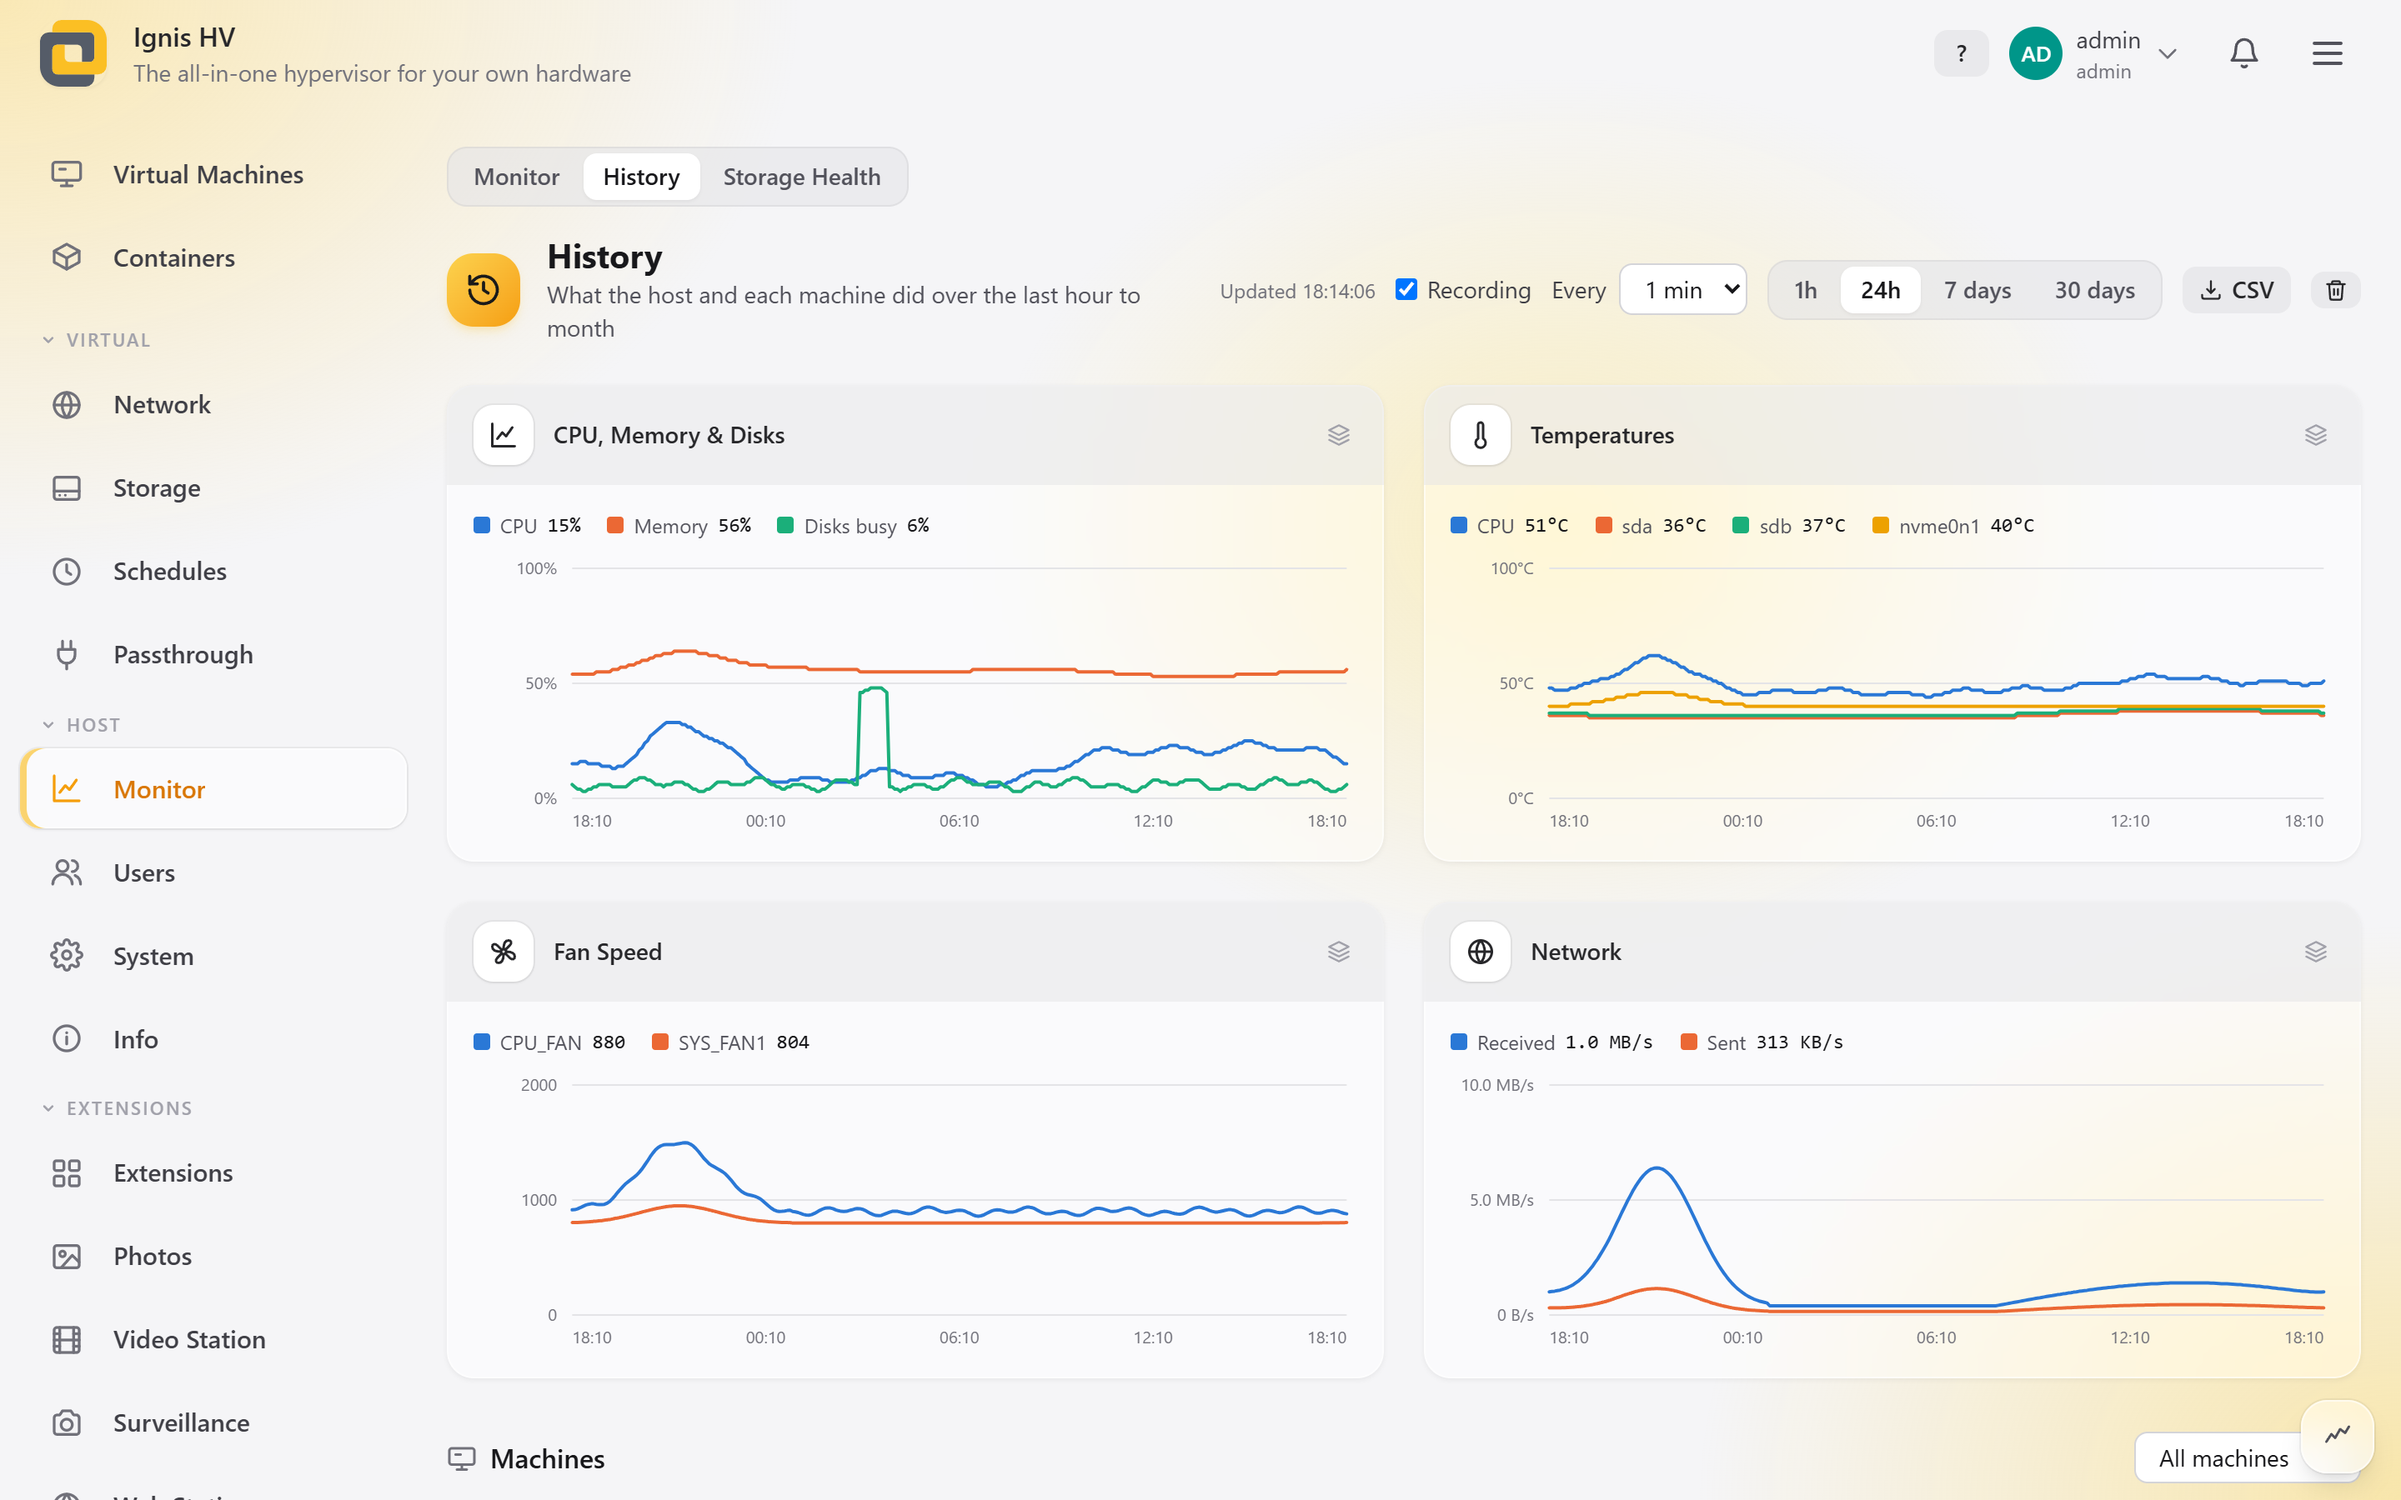
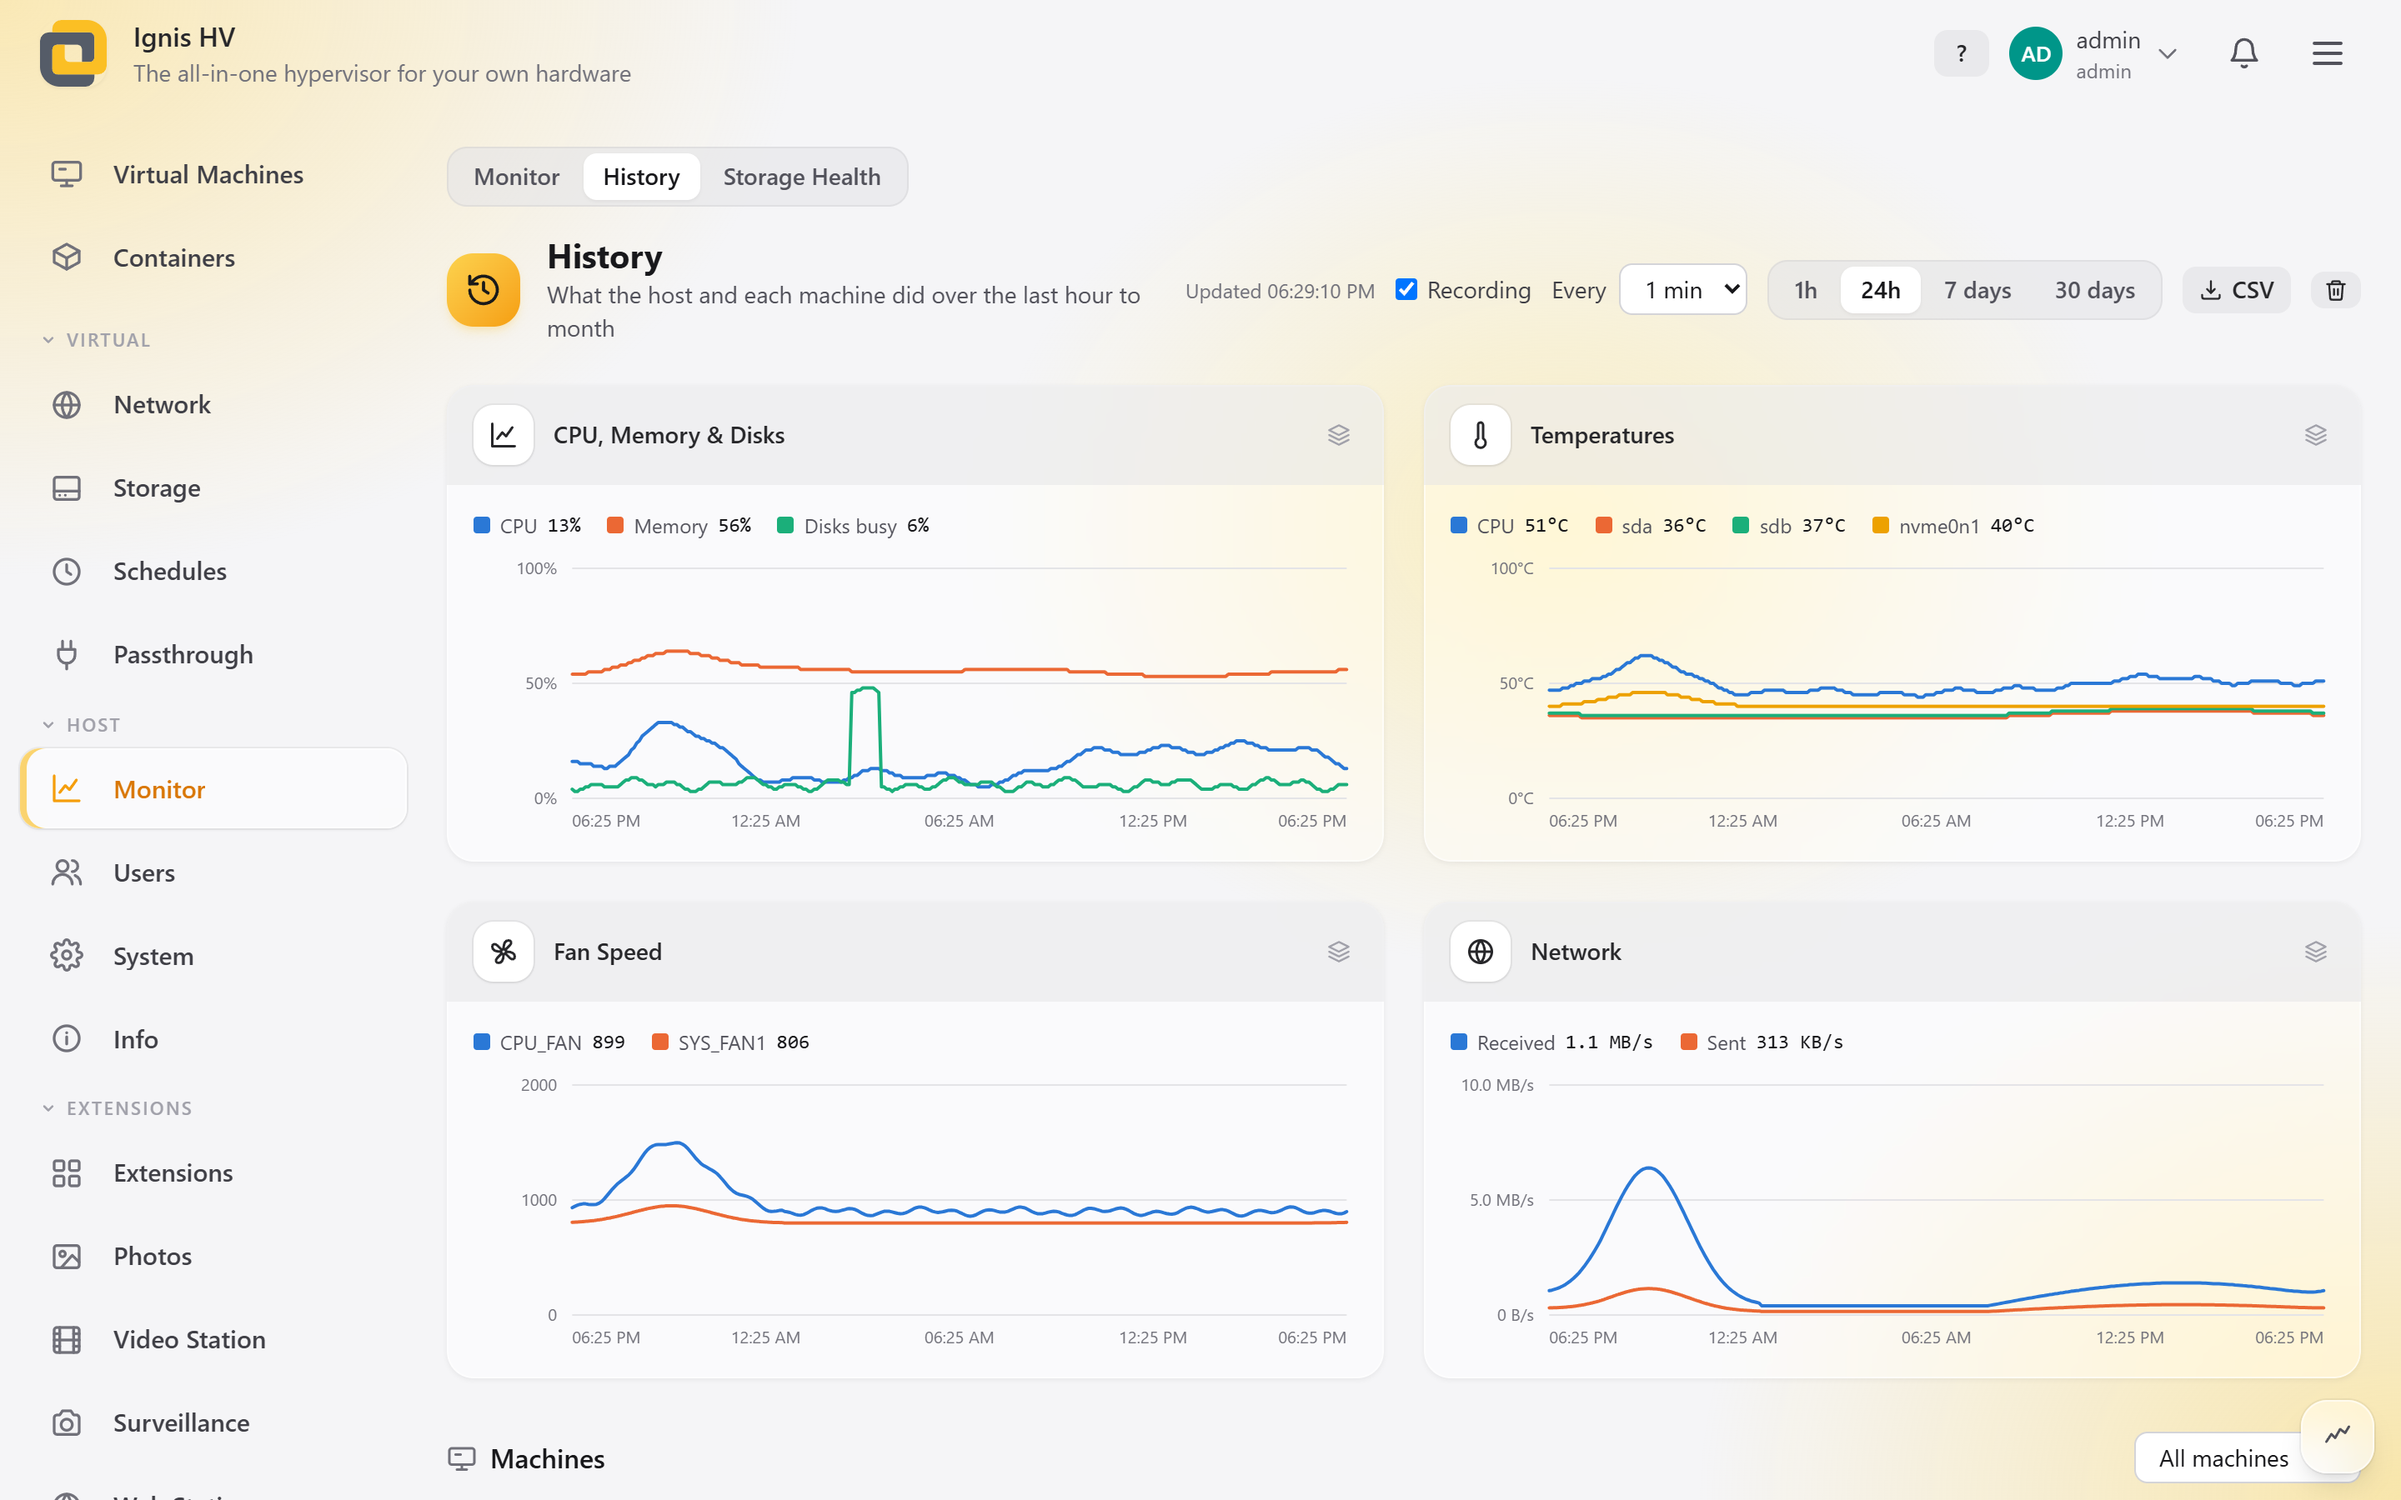
readme: Photos, Video Station, Surveillance and Drive in action
Four more app screenshots with generated placeholder pictures, and Monitor, History and the desktop retaken with English dates.

diff --git a/README.md b/README.md
@@ -150,7 +150,7 @@ Pick the look you like from the account menu: a light or dark mode, an accent co
     <td width="50%"><img alt="Virtual Machines in the dark mode" src="assets/screenshots/machines.png"><br><sub><b>Virtual Machines</b>: everything about a machine at a glance</sub></td>
   </tr>
   <tr>
-    <td colspan="2"><img alt="The desktop layout: Virtual Machines, Monitor and Containers in windows of their own" src="assets/screenshots/desktop.png"><br><sub><b>Desktop</b>: every page in a window of its own, with desktop icons and a taskbar</sub></td>
+    <td colspan="2"><img alt="The desktop layout: Virtual Machines, Monitor and Containers in windows of their own" src="assets/screenshots/desktop.png"><br><sub><b>Desktop</b>: every page in a window of its own, with a taskbar and your wallpaper</sub></td>
   </tr>
 </table>
 
@@ -158,15 +158,23 @@ Pick the look you like from the account menu: a light or dark mode, an accent co
 
 <table>
   <tr>
-    <td width="50%"><img alt="Web Station: websites with WordPress, HTTPS and a PHP version each" src="assets/screenshots/apps/web.png"><br><sub><b>Web Station</b>: your websites, each with its own certificate and PHP version</sub></td>
-    <td width="50%"><img alt="Game Servers: Minecraft, Valheim and more, with players and usage" src="assets/screenshots/apps/games.png"><br><sub><b>Game Servers</b>: start a server in a few clicks and see who is playing</sub></td>
+    <td width="50%"><img alt="Photos: a timeline of pictures grouped by day" src="assets/screenshots/apps/photos.png"><br><sub><b>Photos</b>: your pictures as a timeline, by people, places and things</sub></td>
+    <td width="50%"><img alt="Video Station: posters under Continue watching and Recently added" src="assets/screenshots/apps/video.png"><br><sub><b>Video Station</b>: your films and shows with posters, in the browser and on your TV</sub></td>
   </tr>
   <tr>
-    <td width="50%"><img alt="Download Station: downloads and torrents with their progress" src="assets/screenshots/apps/downloads.png"><br><sub><b>Download Station</b>: links, torrents and magnet links in one queue</sub></td>
-    <td width="50%"><img alt="VPN: a WireGuard server with phone, laptop and tablet" src="assets/screenshots/apps/vpn.png"><br><sub><b>VPN</b>: add a device and scan its QR code</sub></td>
+    <td width="50%"><img alt="Surveillance: four cameras live in a grid" src="assets/screenshots/apps/surveillance.png"><br><sub><b>Surveillance</b>: live view, recordings and alerts for your IP cameras</sub></td>
+    <td width="50%"><img alt="Drive: a folder of pictures as thumbnails" src="assets/screenshots/apps/drive.png"><br><sub><b>Drive</b>: your shared folders in the browser, with share links</sub></td>
   </tr>
   <tr>
-    <td width="50%"><img alt="Mail Server: the DNS records to set for a domain, checked" src="assets/screenshots/apps/mail.png"><br><sub><b>Mail Server</b>: shows which DNS records to set, and checks them</sub></td>
+    <td width="50%"><img alt="Web Station: websites with their PHP version and certificate" src="assets/screenshots/apps/web.png"><br><sub><b>Web Station</b>: your websites with HTTPS, PHP 8.3 to 8.5 per site and WordPress in one click</sub></td>
+    <td width="50%"><img alt="Game Servers: five servers with players and usage" src="assets/screenshots/apps/games.png"><br><sub><b>Game Servers</b>: Minecraft, Valheim and about 150 more, with console and backups</sub></td>
+  </tr>
+  <tr>
+    <td width="50%"><img alt="Download Station: a download queue with progress" src="assets/screenshots/apps/downloads.png"><br><sub><b>Download Station</b>: links and torrents straight onto your storage</sub></td>
+    <td width="50%"><img alt="VPN: WireGuard devices with their QR codes" src="assets/screenshots/apps/vpn.png"><br><sub><b>VPN</b>: WireGuard, OpenVPN, IPsec and Tailscale, with a QR code per device</sub></td>
+  </tr>
+  <tr>
+    <td width="50%"><img alt="Mail Server: the DNS records to set for a domain" src="assets/screenshots/apps/mail.png"><br><sub><b>Mail Server</b>: email for your own domain, with a DNS check</sub></td>
     <td width="50%"></td>
   </tr>
 </table>
